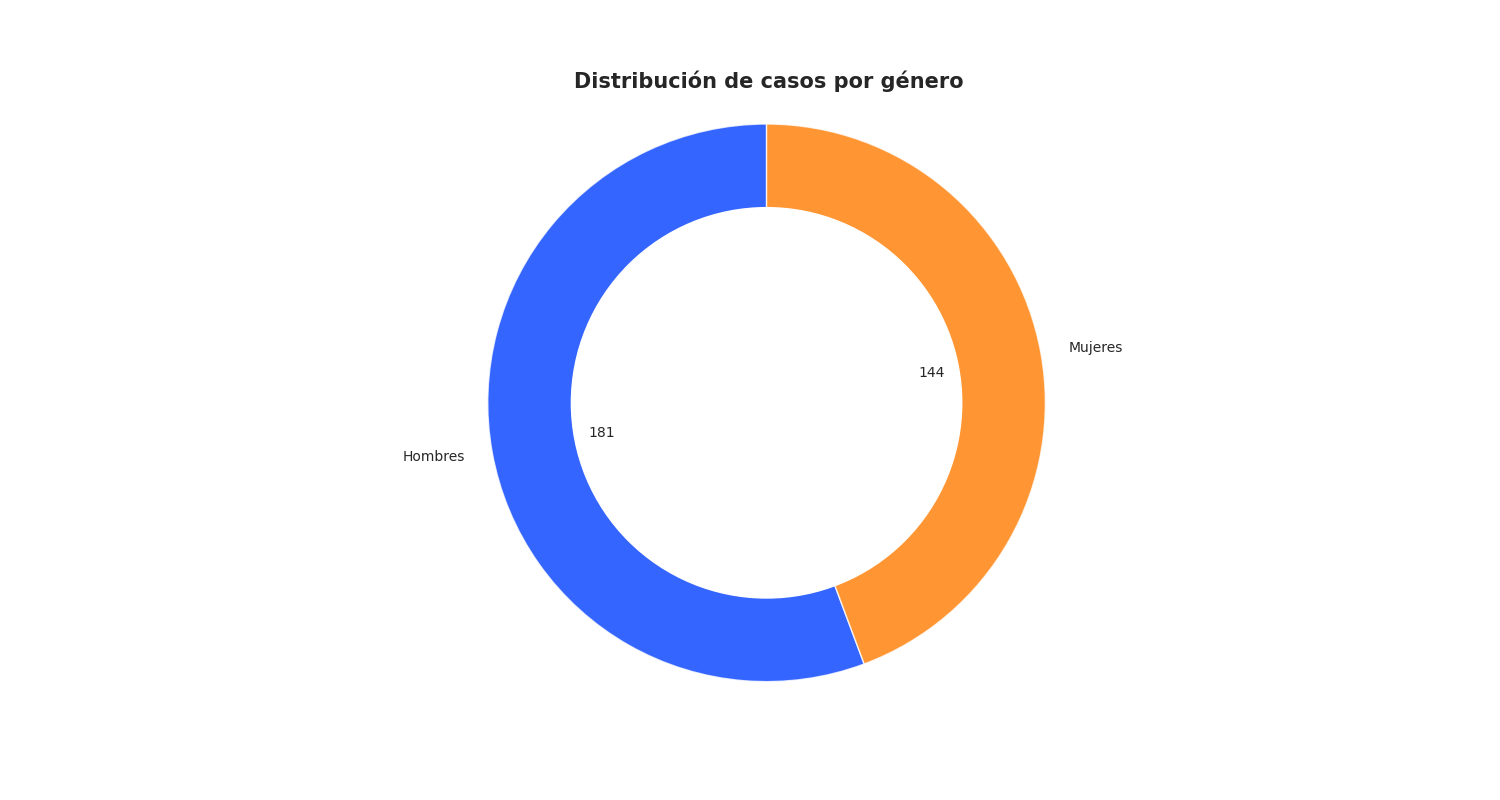
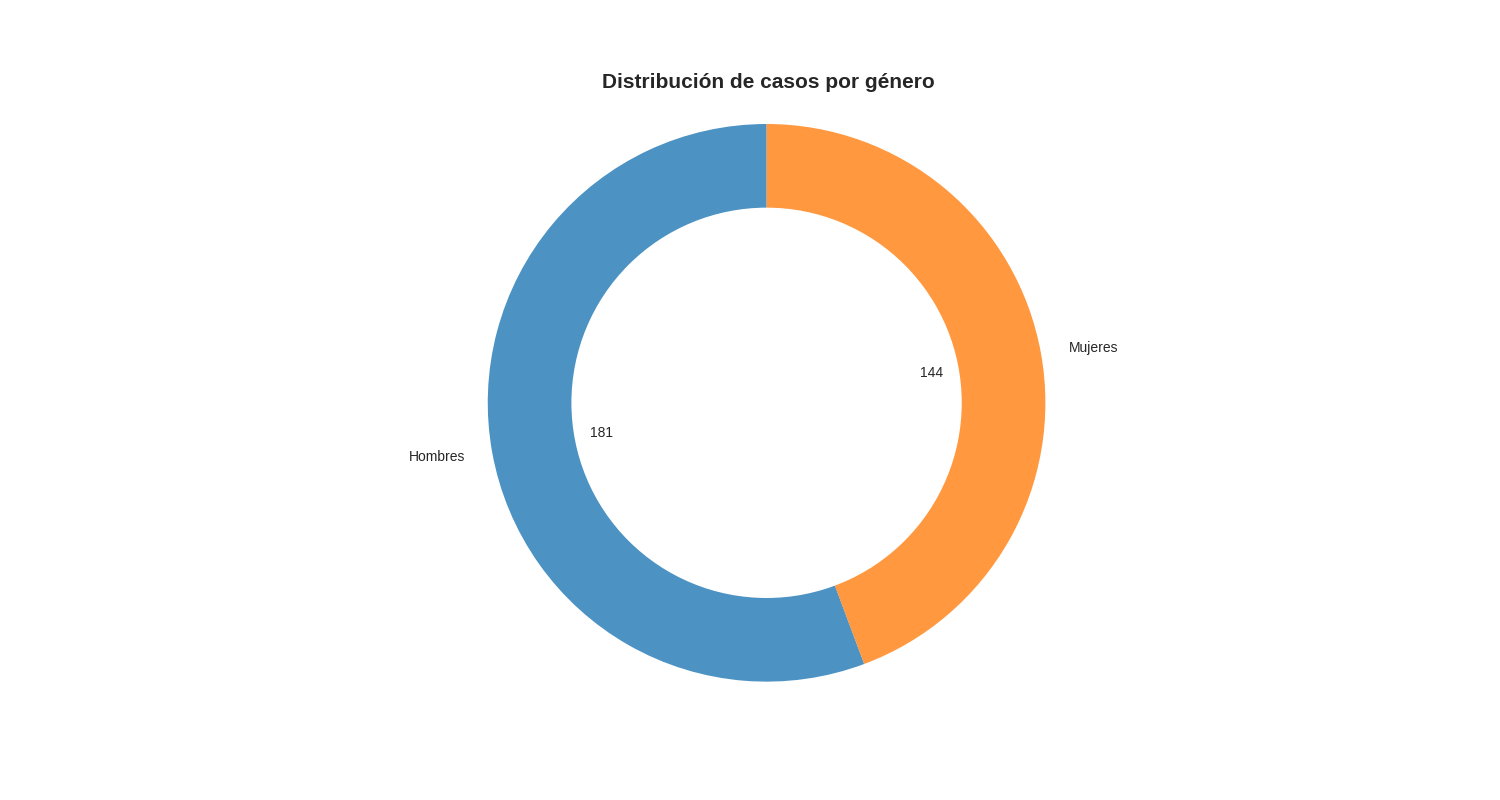
Nueva versión con Matplotlib, sin Seaborn

diff --git a/corona-ve.py b/corona-ve.py
@@ -7,10 +7,10 @@ utilizando el API de https://covid19.patria.org.ve/api-covid-19-venezuela/
 por David Hernandez Aponte <@davidhdz> 2020
 """
 
-import seaborn as sns
+# import seaborn as sns
 import matplotlib.pyplot as plt
 import matplotlib.dates as mdates
-import matplotlib.patches as mpatches
+from matplotlib.dates import date2num
 import numpy as np
 import pandas as pd
 
@@ -18,36 +18,35 @@ import pandas as pd
 # Dimensión de los gráficos generados
 dims = (15, 8)
 
-# Patch para leyenda del gráfico de barras de Casos nuevos
-l1 = mpatches.Patch(color='C0', alpha=0.8, label='Confirmados')
-l2 = mpatches.Patch(color='C1', alpha=0.8, label='Recuperados')
-l3 = mpatches.Patch(color='C2', alpha=0.8, label='Activos')
-l4 = mpatches.Patch(color='C3', alpha=0.8, label='Fallecidos')
-
 # Personalización general de los gráficos
-sns.set_style("darkgrid")
-sns.set_palette("bright")
+plt.style.use('seaborn-darkgrid')
+plt.rcParams['lines.linewidth'] = 2
+plt.rcParams['axes.titleweight'] = 'bold'
 
 
-# Función para añadir valores encima de las barras
+# Función para añadir valores encima de las gráficas
 def show_values_on_bars(axs):
     def _show_on_single_plot(ax):
         for p in ax.patches:
             _x = p.get_x() + p.get_width() / 2
-            _y = p.get_y() + p.get_height()
+            _y = p.get_y() + p.get_height() + .5
             value = '{:.0f}'.format(p.get_height())
             if int(value) > 0:
                 ax.text(_x, _y, value, ha="center", size="x-small")
-
     if isinstance(axs, np.ndarray):
         for idx, ax in np.ndenumerate(axs):
             _show_on_single_plot(ax)
     else:
         _show_on_single_plot(axs)
 
+def show_values_on_lines(x,y):
+        for i,j in zip(x,y):
+            if int(j) > 0:
+                ax.annotate(str(j),xy=(i,j), xytext=(-5,6), textcoords='offset points', size="x-small")
+
 
 # Carga de datos y generación de Data frames para los gráficos de línea de tiempo
-try: 
+try:
     timeline = pd.read_json('https://covid19.patria.org.ve/api/v1/timeline')
     timeline['Date'] = timeline['Date'].dt.date
     df_confirmed = pd.DataFrame(timeline.Confirmed.values.tolist())
@@ -81,127 +80,104 @@ try:
 
 
     # Gráfico del número de casos registrados en Venezuela
-    fig1 = plt.figure(figsize=dims)
+    fig, ax = plt.subplots(figsize=dims)
+    ax.plot(confirmados["Date"], confirmados["Count"],
+            'o-', label='Confirmados', alpha=0.8)
+    show_values_on_lines(confirmados["Date"], confirmados["Count"])
+    ax.plot(recuperados["Date"], recuperados["Count"],
+            'o-', label='Recuperados', alpha=0.8)
+    show_values_on_lines(recuperados["Date"], recuperados["Count"])
+    ax.plot(activos["Date"], activos["Count"], 'o-', label='Activos', alpha=0.8)
+    show_values_on_lines(activos["Date"], activos["Count"])
+    ax.plot(fallecidos["Date"], fallecidos["Count"],
+            'o-', label='Fallecidos', alpha=0.8)
+    show_values_on_lines(fallecidos["Date"], fallecidos["Count"])
+    plt.xticks(rotation=45, ha='right')
+    ax.set(
+        xlabel='',
+        ylabel='Cantidad de casos',
+        title='Casos confirmados de COVID-19 en Venezuela',
+        xticks=(timeline['Date']),
+    )
+    ax.legend(loc='upper left', fontsize=12)
 
-    confirmed_lines = sns.lineplot(
-        x="Date",
-        y="Count",
-        alpha=0.8,
-        markers=True,
-        marker="o",
-        data=confirmados,
-        label='Confirmados'
-    )
-    recovered_lines = sns.lineplot(
-        x="Date",
-        y="Count",
-        alpha=0.8,
-        markers=True,
-        marker="o",
-        data=recuperados,
-        label='Recuperados'
-    )
-    actives_lines = sns.lineplot(
-        x="Date",
-        y="Count",
-        alpha=0.8,
-        markers=True,
-        marker="o",
-        data=activos,
-        label='Activos'
-    )
-    deaths_lines = sns.lineplot(
-        x="Date",
-        y="Count",
-        alpha=0.8,
-        markers=True,
-        marker="o",
-        data=fallecidos,
-        label='Fallecidos'
-    )
-
-    plt.xlabel("", fontsize=12, weight='bold')
-    plt.ylabel("Cantidad de casos", fontsize=12, weight='bold')
-    plt.title("Casos confirmados de COVID-19 en Venezuela",
-            fontsize=15, weight='bold')
-    confirmed_lines.xaxis.set_major_locator(mdates.DayLocator(interval=1))
-    confirmed_lines.figure.autofmt_xdate()
-
-    fig1.savefig("fig1.png")
+    plt.savefig("fig1.png")
 
 
     # Gráfico del número de casos nuevos en Venezuela
-    fig2 = plt.figure(figsize=dims)
-
-    new_cases = sns.barplot(x="Date", y="vals", hue="cols",
-                            data=df_nuevos, alpha=0.8, palette=["C0", "C1", "C3"], dodge=True)
-    new_cases.figure.autofmt_xdate(rotation='90', ha="center")
-
-    show_values_on_bars(new_cases)
-    plt.title("Nuevos casos de COVID-19 en Venezuela", fontsize=15, weight='bold')
-    plt.xlabel("", fontsize=12, weight='bold')
-    plt.ylabel("Cantidad de casos", fontsize=12, weight='bold')
-    new_cases.legend_.remove()
-    fig2.legend(handles=[l1, l2, l4], frameon=False, loc='upper center', ncol=3)
-
-    fig2.savefig("fig2.png")
+    fig, ax = plt.subplots(figsize=dims)
+    x = date2num(nuevos['Date'])
+    barwidth = .3
+    bar1 = ax.bar(x - barwidth, nuevos["New_Confirmed"],
+                width=barwidth, label='Confirmados', alpha=0.8)
+    bar2 = ax.bar(x, nuevos["New_Recovered"],
+                width=barwidth, label='Recuperados', alpha=0.8)
+    bar3 = ax.bar(x + barwidth, nuevos["New_Death"],
+                width=barwidth, label='Fallecidos', color='C3', alpha=0.8)
+    plt.xticks(rotation=90, ha='center')
+    ax.set(
+        xlabel='',
+        ylabel='Cantidad de casos',
+        title='Nuevos casos de COVID-19 en Venezuela',
+        xticks=(nuevos['Date']),
+    )
+    show_values_on_bars(ax)
+    myFmt = mdates.DateFormatter('%Y-%m-%d')
+    ax.xaxis.set_major_formatter(myFmt)
+    ax.legend(loc='upper left', fontsize=12)
+    plt.savefig("fig2.png")
 
 
     # Gráfico de casos en Venezuela
-    fig3, axes = plt.subplots(4, figsize=dims, sharex=True, sharey=True)
-
-    confirmed_bars = sns.barplot(
-        x="Date", y="Count", data=confirmados, color="C0", alpha=0.8, ax=axes[0])
-    recovered_bars = sns.barplot(
-        x="Date", y="Count", data=recuperados, color="C1", alpha=0.8, ax=axes[1])
-    actives_bars = sns.barplot(
-        x="Date", y="Count", data=activos, color="C2", alpha=0.8, ax=axes[2])
-    deaths_bars = sns.barplot(
-        x="Date", y="Count", data=fallecidos, color="C3", alpha=0.8, ax=axes[3])
-
-    show_values_on_bars(axes)
-    confirmed_bars.set(xlabel='', ylabel='Cantidad de casos')
-    recovered_bars.set(xlabel='', ylabel='Cantidad de casos')
-    actives_bars.set(xlabel='', ylabel='Cantidad de casos')
-    deaths_bars.set(xlabel='', ylabel='Cantidad de casos')
+    fig, ((ax1, ax2, ax3, ax4)) = plt.subplots(
+        4, figsize=dims, sharex=True, sharey=True)
+    fig.tight_layout(pad=4.0)
+    ax1.bar(confirmados["Date"], confirmados["Count"], color='C0', alpha=0.8)
+    ax1.set_title('Confirmados')
+    show_values_on_bars(ax1)
+    ax2.bar(recuperados["Date"], recuperados["Count"], color='C1', alpha=0.8)
+    ax2.set_title('Recuperados')
+    show_values_on_bars(ax2)
+    ax3.bar(activos["Date"], activos["Count"], color='C2', alpha=0.8)
+    ax3.set_title('Activos')
+    show_values_on_bars(ax3)
+    ax4.bar(fallecidos["Date"], fallecidos["Count"], color='C3', alpha=0.8)
+    ax4.set_title('Fallecidos')
+    show_values_on_bars(ax4)
+    plt.xticks(rotation=45, ha='right')
     plt.suptitle('Casos de COVID-19 en Venezuela (acumulados)',
                 fontsize=15, weight='bold')
-    actives_bars.figure.autofmt_xdate(rotation='90', ha='center')
-    fig3.legend(handles=[l1, l2, l3, l4], frameon=False,
-                loc='lower center', ncol=4)
-
-    fig3.savefig("fig3.png")
+    for ax in fig.get_axes():
+        ax.set(
+            xlabel='',
+            ylabel='Cantidad de casos',
+            xticks=(nuevos['Date']),
+        )
+        ax.label_outer()
+    plt.savefig("fig3.png")
 
 
     # Gráfico de distribución por género de casos en Venezuela
-    fig4, ax4 = plt.subplots(figsize=dims)
-
-    ax4.pie(count_gender, labels=labels_gender, colors=['C0', 'C1'], wedgeprops={'alpha':0.8},
-            autopct=lambda p: '{:.0f}'.format(p * int(summary.Confirmed['Count']) / 100), shadow=False, startangle=90)
-
+    fig, ax = plt.subplots(figsize=dims)
+    ax.pie(count_gender, labels=labels_gender, colors=['C0', 'C1'], wedgeprops={'alpha':0.8},
+        autopct=lambda p: '{:.0f}'.format(p * int(summary.Confirmed['Count']) / 100), shadow=False, startangle=90)
     centre_circle = plt.Circle((0, 0), 0.7, fc='white')
     fig = plt.gcf()
     fig.gca().add_artist(centre_circle)
-
     plt.axis('equal')
-    plt.title("Distribución de casos por género",
-            fontsize=15, weight='bold')
-
-    fig4.savefig("fig4.png")
+    plt.title("Distribución de casos por género", fontsize=15, weight='bold')
+    fig.savefig("fig4.png")
 
 
     # Gráfico de distribución por edades de casos en Venezuela
-    fig5, ax5 = plt.subplots(figsize=dims)
-
-    gender_bars = sns.barplot(x="Range", y="Count", data=df_ages, alpha=0.8)
-
-    show_values_on_bars(gender_bars)
+    fig, ax = plt.subplots(figsize=dims)
+    ax.bar(df_ages["Range"], df_ages["Count"], color=['C0', 'C1',
+                                                    'C2', 'C3', 'C4', 'C5', 'C6', 'C7', 'C8', 'C9'], alpha=0.8)
+    show_values_on_bars(ax)
     plt.xlabel("Rango de edad", fontsize=12, weight='bold')
     plt.ylabel("Cantidad de casos", fontsize=12, weight='bold')
-    plt.title("Distribución de casos por edad",
-            fontsize=15, weight='bold')
-
-    fig5.savefig("fig5.png")
+    plt.title("Distribución de casos por edad", fontsize=15, weight='bold')
+    fig.savefig("fig5.png")
 
 
     # Salida por cónsola
@@ -221,8 +197,10 @@ try:
     print()
     print("Estadísticas")
     print("===========================")
-    print("Letalidad: \t{0:3.2f}%".format((int(summary.Deaths['Count'])/int(summary.Confirmed['Count']))*100))
-    print("Recuperación: \t{0:3.2f}%".format((int(summary.Recovered['Count'])/int(summary.Confirmed['Count']))*100))
+    print("Letalidad: \t{0:3.2f}%".format(
+        (int(summary.Deaths['Count'])/int(summary.Confirmed['Count']))*100))
+    print("Recuperación: \t{0:3.2f}%".format(
+        (int(summary.Recovered['Count'])/int(summary.Confirmed['Count']))*100))
     print()
 
 except:
